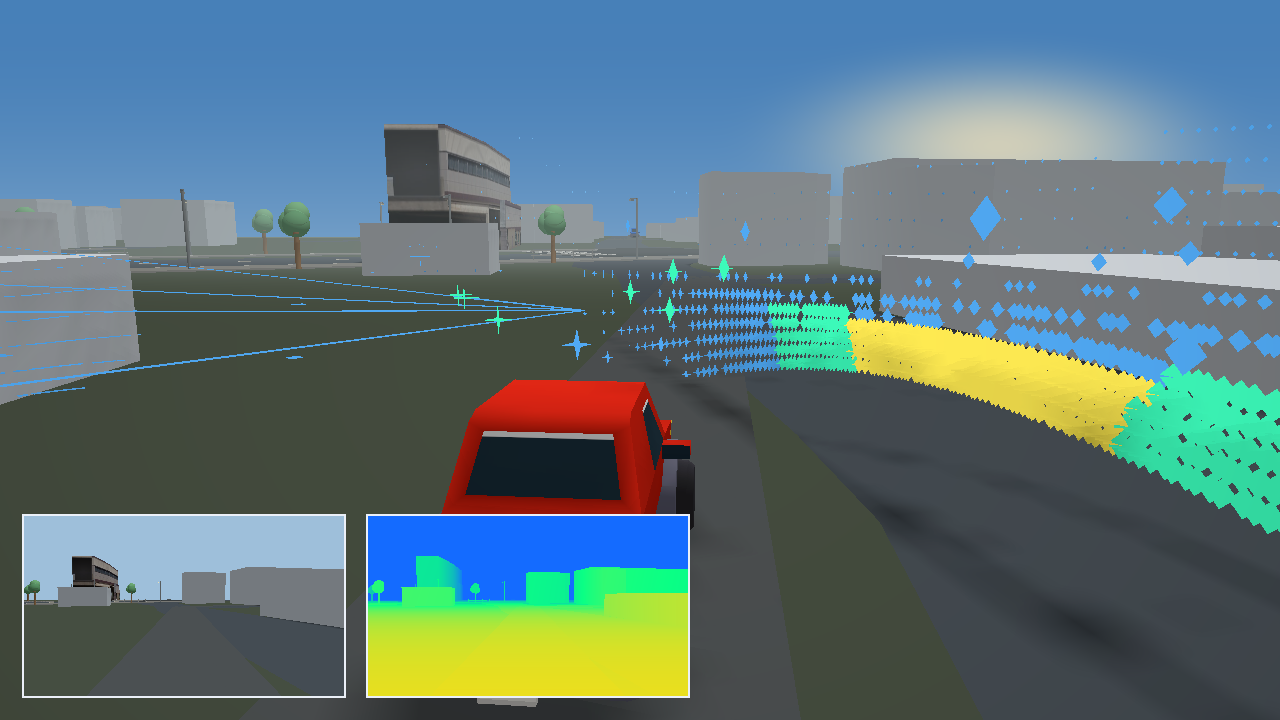
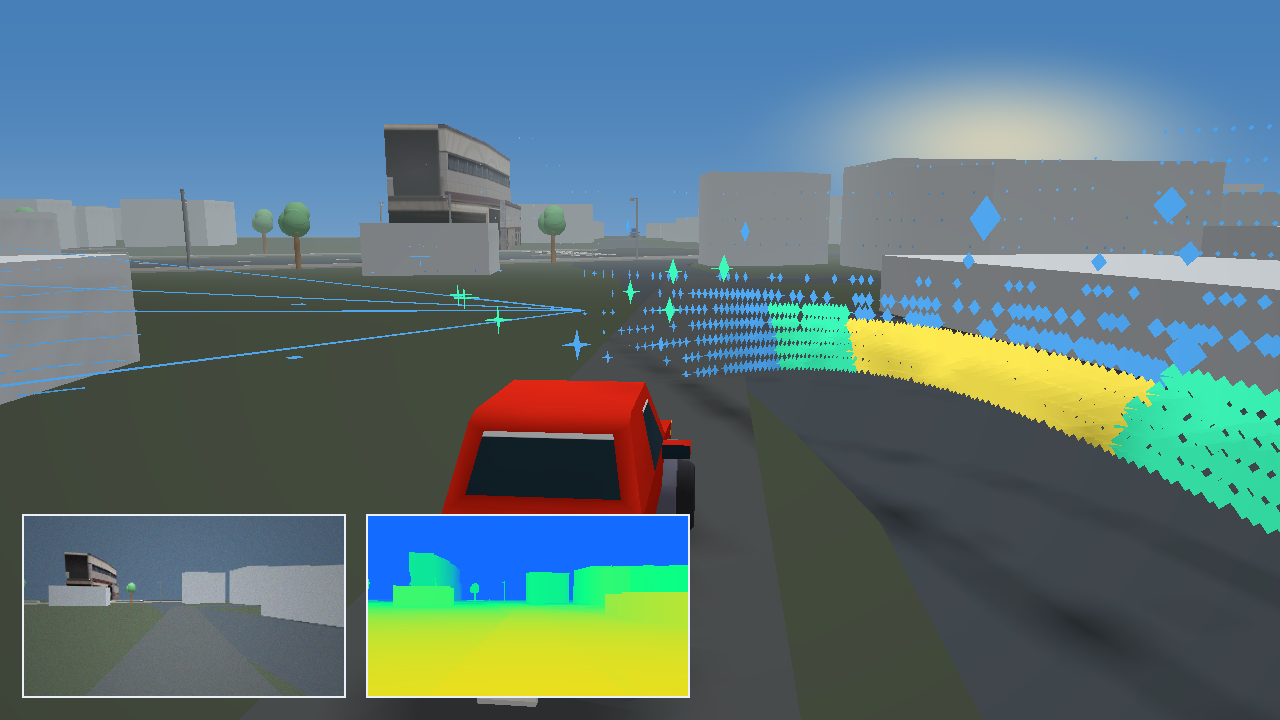
run the Sanjo onboard camera through the sensor model
Route both the headless capture and the wgpu inset render through
sample_camera_rgbd_swept, so the picture-in-picture views show real sensor
output: barrel distortion resampling color and depth, an eight-band rolling
shutter swept across the platform motion, auto exposure, shot and read noise,
and vignetting.

Changed region(s): [[0.0, 0.7028, 0.3438, 0.9778], [0.5, 0.7639, 0.5312, 0.7944]]

diff --git a/examples/46_plateau_drone_gif/main.rs b/examples/46_plateau_drone_gif/main.rs
@@ -24,8 +24,9 @@ use rne_robot::{
     ackermann_kinematics, command_ackermann_drive, pure_pursuit_steering, AckermannDrive,
 };
 use rne_sensor::{
-    sample_camera_rgbd, sample_lidar_swept, CameraRgbdSample, CameraSpec, LidarAtmosphere,
-    LidarDomainRandomization, LidarMaterial, LidarSpec, LidarSweep, SensorNoiseKey,
+    sample_camera_rgbd_swept, sample_lidar_swept, CameraDistortion, CameraRgbdSample, CameraSpec,
+    CameraSweep, LidarAtmosphere, LidarDomainRandomization, LidarMaterial, LidarSpec, LidarSweep,
+    SensorNoiseKey,
 };
 #[cfg(test)]
 use rne_traffic::advance_kinematic_traffic;
@@ -87,7 +88,12 @@ const CAMERA_FOV_Y_RAD: f64 = 0.715_584_993_317_675_1;
 /// Slight downward tilt so the camera frames the road ahead.
 const CAMERA_PITCH_RAD: f64 = -0.045;
 const CAMERA_STREAM_ID: u64 = 46_906;
-const CAMERA_CLEAR_COLOR: [f32; 4] = [0.34, 0.52, 0.70, 1.0];
+/// Root world seed shared by the deterministic sensor captures.
+const CITY_WORLD_SEED: u64 = 46;
+/// Sensor readout time; the car covers real ground while the rows are scanned out.
+const CAMERA_READOUT_TIME_S: f64 = 0.02;
+/// Bands rendered per frame to approximate continuous row-by-row readout.
+const CAMERA_ROLLING_SHUTTER_BANDS: u16 = 8;
 /// Inset margin and border thickness in pixels.
 const CAMERA_INSET_MARGIN_PX: u32 = 24;
 const CAMERA_INSET_BORDER_PX: u32 = 2;
@@ -783,6 +789,8 @@ fn main() {
     fs::create_dir_all(&frames_dir).expect("create PLATEAU LiDAR frames");
     fs::create_dir_all(&media_dir).expect("create media directory");
     let onboard_camera = Camera::new(CAMERA_WIDTH, CAMERA_HEIGHT, CAMERA_FOV_Y_RAD);
+    let camera_spec = city_camera_spec();
+    let mut previous_camera_pose: Option<Transform3> = None;
     for (frame, vehicles) in city_traffic.iter().take(render_frame_count).enumerate() {
         let primary = vehicles[primary_actor_index];
         let mut scene = city_scene.clone();
@@ -800,20 +808,18 @@ fn main() {
             debug_overlay == TrafficDebugOverlay::default(),
         );
         // The onboard camera sees the world, not the LiDAR debug overlay, so it is
-        // rendered from the scene before the point cloud markers are appended.
-        let onboard_view = vehicle_camera_transform(primary);
-        let onboard = backend
-            .render_scene_camera(
-                &onboard_camera,
-                &MathTransform3 {
-                    translation: onboard_view.translation,
-                    rotation: onboard_view.rotation,
-                    scale: onboard_view.scale,
-                },
-                &scene,
-                CAMERA_CLEAR_COLOR,
-            )
-            .expect("render onboard camera frame");
+        // sampled from the scene before the point cloud markers are appended. Routing it
+        // through the sensor model means the inset shows the real lens distortion,
+        // rolling shutter, exposure, noise and vignetting, not a clean render.
+        let onboard = sample_camera_rgbd_swept(
+            &mut backend,
+            &city_camera_sweep(previous_camera_pose, primary),
+            &camera_spec,
+            SimTime::from_ticks(frame as u64),
+            &scene,
+            city_camera_noise_key(frame),
+        );
+        previous_camera_pose = Some(vehicle_camera_transform(primary));
 
         append_lidar_intensity_overlay(&mut scene, &lidar_capture.frames[frame]);
         let car_camera = follow_camera(primary);
@@ -828,10 +834,16 @@ fn main() {
             camera.far_m as f32,
         );
         blit_camera_insets(
-            &mut presented,
-            output.color.width,
-            output.color.height,
-            &onboard.color,
+            &mut FrameBuffer {
+                pixels: &mut presented,
+                width: output.color.width,
+                height: output.color.height,
+            },
+            InsetImage {
+                pixels: &onboard.rgb.rgba8,
+                width: onboard.rgb.width,
+                height: onboard.rgb.height,
+            },
             &onboard.depth.depth_m,
             onboard_camera.far_m as f32,
         );
@@ -1726,8 +1738,42 @@ fn city_camera_spec() -> CameraSpec {
         height: CAMERA_HEIGHT,
         fov_y_rad: CAMERA_FOV_Y_RAD,
         seed: CAMERA_STREAM_ID,
+        // Mild barrel distortion typical of a wide automotive lens.
+        distortion: CameraDistortion {
+            k1: -0.26,
+            k2: 0.07,
+            ..CameraDistortion::default()
+        },
+        // A CMOS sensor reads the frame out in roughly 20 ms while the car drives.
+        readout_time_s: CAMERA_READOUT_TIME_S,
+        rolling_shutter_bands: CAMERA_ROLLING_SHUTTER_BANDS,
+        auto_exposure_target_luminance: 0.42,
+        auto_exposure_max_ev: 2.0,
+        shot_noise_scale: 0.0006,
+        read_noise_stddev: 0.003,
+        vignette_strength: 0.35,
         ..CameraSpec::default()
     }
+}
+
+/// Returns the readout sweep for one frame of the onboard camera.
+///
+/// The sensor scans its rows out while the car drives, so the sweep runs from the pose
+/// at the previous frame to the pose now. The first frame has no predecessor and is
+/// captured as a global shutter.
+fn city_camera_sweep(previous_pose: Option<Transform3>, primary: VehicleFrame) -> CameraSweep {
+    let pose = vehicle_camera_transform(primary);
+    CameraSweep::new(previous_pose.unwrap_or(pose), pose)
+}
+
+/// Returns the deterministic noise key for the onboard camera at `frame_index`.
+fn city_camera_noise_key(frame_index: usize) -> SensorNoiseKey {
+    SensorNoiseKey::new(
+        CITY_WORLD_SEED,
+        CAMERA_STREAM_ID,
+        CAMERA_STREAM_ID,
+        frame_index as u64 + 1,
+    )
 }
 
 /// Returns the pose of the forward camera mounted behind the windshield.
@@ -1768,6 +1814,7 @@ fn capture_city_camera_frames(
     let mut pixels_per_frame = 0_usize;
     let mut nearest_depth_m = f32::INFINITY;
     let mut center_depth_sum = 0.0_f64;
+    let mut previous_pose: Option<Transform3> = None;
 
     for (frame_index, vehicles) in traffic_frames.iter().enumerate() {
         let primary = vehicles[primary_actor_index];
@@ -1779,13 +1826,15 @@ fn capture_city_camera_frames(
             primary_actor_index,
             false,
         );
-        let sample = sample_camera_rgbd(
+        let sample = sample_camera_rgbd_swept(
             &mut render,
-            &vehicle_camera_transform(primary),
+            &city_camera_sweep(previous_pose, primary),
             &spec,
             SimTime::from_ticks(frame_index as u64),
             &scene,
+            city_camera_noise_key(frame_index),
         );
+        previous_pose = Some(vehicle_camera_transform(primary));
 
         pixels_per_frame = sample.depth.depth_m.len();
         let center_depth_m = sample.depth.center_depth_m();
@@ -3386,25 +3435,18 @@ fn blit_inset(frame: &mut FrameBuffer<'_>, inset: InsetImage<'_>, origin: (u32, 
 
 /// Draws the onboard RGB and depth camera views into the bottom-left of a frame.
 fn blit_camera_insets(
-    frame: &mut [u8],
-    frame_width: u32,
-    frame_height: u32,
-    color: &ImageFrame,
+    target: &mut FrameBuffer<'_>,
+    color: InsetImage<'_>,
     depth_m: &[f32],
     far_m: f32,
 ) {
     let margin = CAMERA_INSET_MARGIN_PX;
-    let inset_top = frame_height.saturating_sub(margin + color.height);
-    let mut target = FrameBuffer {
-        pixels: frame,
-        width: frame_width,
-        height: frame_height,
-    };
+    let inset_top = target.height.saturating_sub(margin + color.height);
 
     blit_inset(
-        &mut target,
+        target,
         InsetImage {
-            pixels: &color.rgba8,
+            pixels: color.pixels,
             width: color.width,
             height: color.height,
         },
@@ -3413,7 +3455,7 @@ fn blit_camera_insets(
 
     let depth_rgba = depth_ramp_rgba(depth_m, far_m);
     blit_inset(
-        &mut target,
+        target,
         InsetImage {
             pixels: &depth_rgba,
             width: color.width,
@@ -3968,20 +4010,22 @@ mod tests {
         let frame_width = 1_280_u32;
         let frame_height = 720_u32;
         let mut frame = vec![0_u8; (frame_width * frame_height * 4) as usize];
-        let color = ImageFrame {
-            width: CAMERA_WIDTH,
-            height: CAMERA_HEIGHT,
-            rgba8: (0..CAMERA_WIDTH * CAMERA_HEIGHT)
-                .flat_map(|_| [9_u8, 9, 9, 255])
-                .collect(),
-        };
+        let color_rgba8 = (0..CAMERA_WIDTH * CAMERA_HEIGHT)
+            .flat_map(|_| [9_u8, 9, 9, 255])
+            .collect::<Vec<_>>();
         let depth_m = vec![25.0_f32; (CAMERA_WIDTH * CAMERA_HEIGHT) as usize];
 
         blit_camera_insets(
-            &mut frame,
-            frame_width,
-            frame_height,
-            &color,
+            &mut FrameBuffer {
+                pixels: &mut frame,
+                width: frame_width,
+                height: frame_height,
+            },
+            InsetImage {
+                pixels: &color_rgba8,
+                width: CAMERA_WIDTH,
+                height: CAMERA_HEIGHT,
+            },
             &depth_m,
             80.0,
         );

diff --git a/README.md b/README.md
@@ -66,9 +66,16 @@ snow attenuate, backscatter, and occlude; and the scanner sweeps a full
 revolution per frame, so each azimuth column is cast from the moving vehicle's
 interpolated pose and every point carries its own emission time. All
 randomization derives from `WorldRandom`. Blue, green, and yellow points show
-increasing normalized return intensity. The same vehicle also carries a forward
-RGB-D camera; its raw color and linear-depth views are composited as the two
-insets, and the depth ramp reuses the LiDAR intensity legend.
+increasing normalized return intensity.
+
+The same vehicle carries a forward RGB-D camera that is modeled to the same
+standard. Brown-Conrady barrel distortion resamples both color and depth, an
+eight-band rolling shutter is swept across the platform motion so the frame skews
+as the car drives, auto exposure tracks mean luminance, and signal-dependent shot
+noise, a read-noise floor and cos&#8308; vignetting are applied on top — all
+deterministic from the same `WorldRandom` stream. The two insets are that sensor's
+real output, not a clean render, and the depth ramp reuses the LiDAR intensity
+legend.
 
 <p align="center">
   <picture>
@@ -76,7 +83,7 @@ insets, and the depth ramp reuses the LiDAR intensity legend.
     <img src="docs/media/plateau-lidar.gif" alt="Physics-aware LiDAR returns from a moving vehicle in official PLATEAU Sanjo traffic" width="960">
   </picture>
   <br>
-  <sub>Real 12-second/144-frame wgpu capture of 285,666 material-aware, incidence-aware, weather-attenuated LiDAR returns across 16 elevation channels (19,339 later returns, 488 saturated retroreflective returns; stable scan hash <code>11611048955455473063</code>) plus a vehicle-mounted RGB-D camera (stable hash <code>8873769722900379237</code>), while 100 deterministic vehicles share the official Sanjo scene.</sub>
+  <sub>Real 12-second/144-frame wgpu capture of 285,666 material-aware, incidence-aware, weather-attenuated LiDAR returns across 16 elevation channels (19,339 later returns, 488 saturated retroreflective returns; stable scan hash <code>11611048955455473063</code>) plus a vehicle-mounted RGB-D camera with lens distortion, rolling shutter, auto exposure and sensor noise (stable hash <code>6959649481969108202</code>), while 100 deterministic vehicles share the official Sanjo scene.</sub>
 </p>
 
 ```bash
@@ -106,7 +113,9 @@ KPIs, and at least 60 Hz. See
 [deterministic traffic runtime](docs/TRAFFIC_RUNTIME.md).
 The LiDAR equations, timestamp and failure behavior, deterministic weather
 randomization, payload attributes, and Sanjo acceptance hash are documented in
-[physics-aware LiDAR](docs/LIDAR_SIMULATION.md).
+[physics-aware LiDAR](docs/LIDAR_SIMULATION.md). The camera pipeline, distortion
+and noise equations, rolling-shutter contract, and its Sanjo settings are
+documented in [physics-aware camera](docs/CAMERA_SIMULATION.md).
 
 ## Official Unitree Go2 URDF
 

diff --git a/docs/CAMERA_SIMULATION.md b/docs/CAMERA_SIMULATION.md
@@ -115,6 +115,34 @@ factor = 1 - vignette_strength * (1 - cos^4(theta))
 `vignette_strength = 0` disables it; `1.0` applies the full cos^4 law. `cos(theta)` is
 derived from the pixel's tangent-space offset and the vertical field of view.
 
+## Sanjo onboard camera
+
+Example 46 mounts this model on the tracked vehicle in the official Sanjo PLATEAU
+scene, beside the 16-channel LiDAR:
+
+| parameter | value | rationale |
+| --- | --- | --- |
+| `distortion.k1` / `k2` | `-0.26` / `0.07` | mild barrel, typical of a wide automotive lens |
+| `readout_time_s` | `0.02` | a CMOS sensor reads out in roughly 20 ms |
+| `rolling_shutter_bands` | `8` | the car covers real ground during readout |
+| `auto_exposure_target_luminance` | `0.42` | normalizes the raw render, which reads bright |
+| `auto_exposure_max_ev` | `2.0` | keeps the gain from chasing a dark frame |
+| `shot_noise_scale` | `0.0006` | restrained daylight shot noise |
+| `read_noise_stddev` | `0.003` | sensor read floor |
+| `vignette_strength` | `0.35` | partial cos^4 falloff |
+
+The readout sweep runs from the camera pose at the previous frame to the pose now, so
+rolling-shutter skew tracks the actual vehicle motion. The first frame has no
+predecessor and is captured as a global shutter.
+
+Both capture paths go through the same model. The headless path uses
+`HeadlessRenderBackend` and is the GPU-free determinism signal CI checks; the wgpu path
+produces the color and depth insets composited into `docs/media/plateau-lidar.gif`, so
+those insets show real sensor output rather than a clean render.
+
+The committed 144-frame headless capture reports a nearest observed depth of `12.53 m`,
+a mean center depth of `43.47 m`, and stable hash `6959649481969108202`.
+
 ## Known simplification
 
 The render backend returns 8-bit RGBA, so exposure and noise operate on a quantized

diff --git a/docs/LIDAR_SIMULATION.md b/docs/LIDAR_SIMULATION.md
@@ -216,6 +216,11 @@ view. It is a second sensor on the same actor rather than a presentation camera:
 it observes the world without the LiDAR debug overlay, and its pose is derived
 from the vehicle heading exactly like the LiDAR mount.
 
+Both capture paths run the full [physics-aware camera](CAMERA_SIMULATION.md)
+model, so the insets show real sensor output rather than a clean render: barrel
+distortion, an 8-band rolling shutter swept across the platform motion, auto
+exposure, shot and read noise, and vignetting.
+
 Capture runs twice for different purposes:
 
 * **Headless.** `HeadlessRenderBackend` resolves geometry through the shared
@@ -228,7 +233,7 @@ Capture runs twice for different purposes:
   sensors read against one legend.
 
 The committed 144-frame headless capture reports a nearest observed depth of
-`12.54 m`, a mean center depth of `43.58 m`, and stable hash
-`8873769722900379237`. The acceptance test additionally requires the capture to
+`12.53 m`, a mean center depth of `43.47 m`, and stable hash
+`6959649481969108202`. The acceptance test additionally requires the capture to
 repeat exactly, to fill every pixel of the configured resolution, and to change
 between frames as the host vehicle drives.
